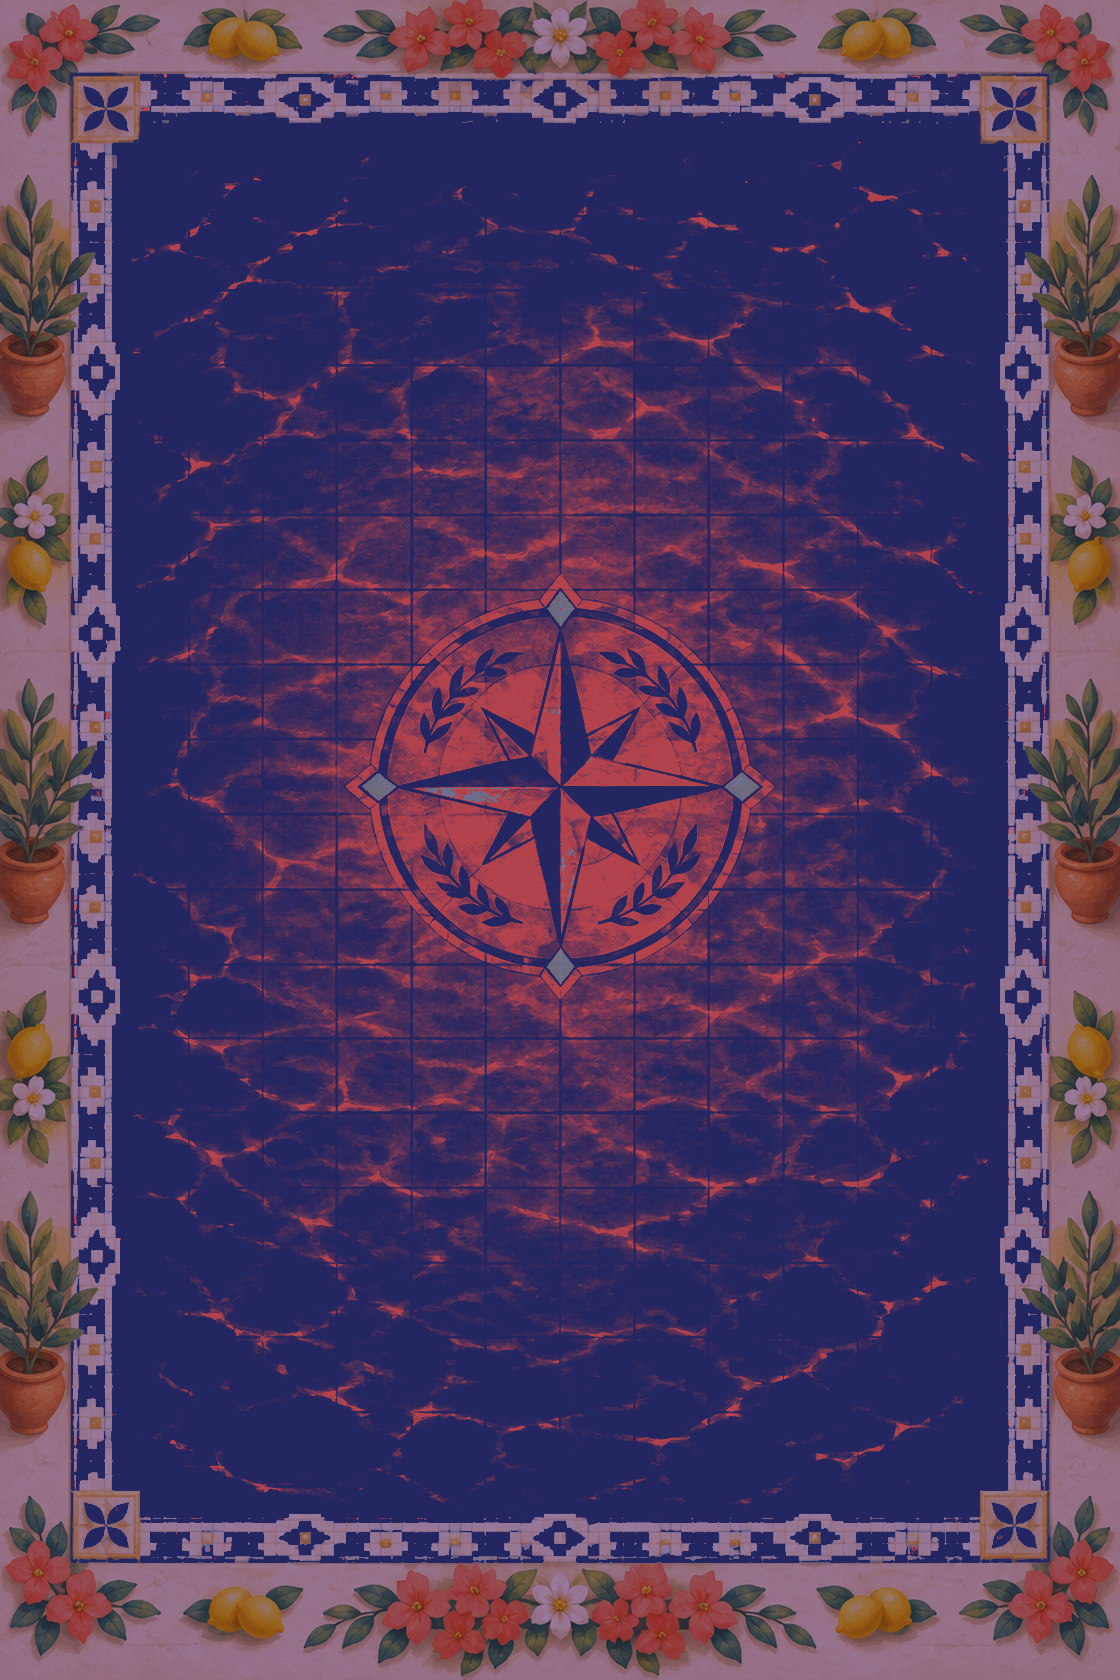
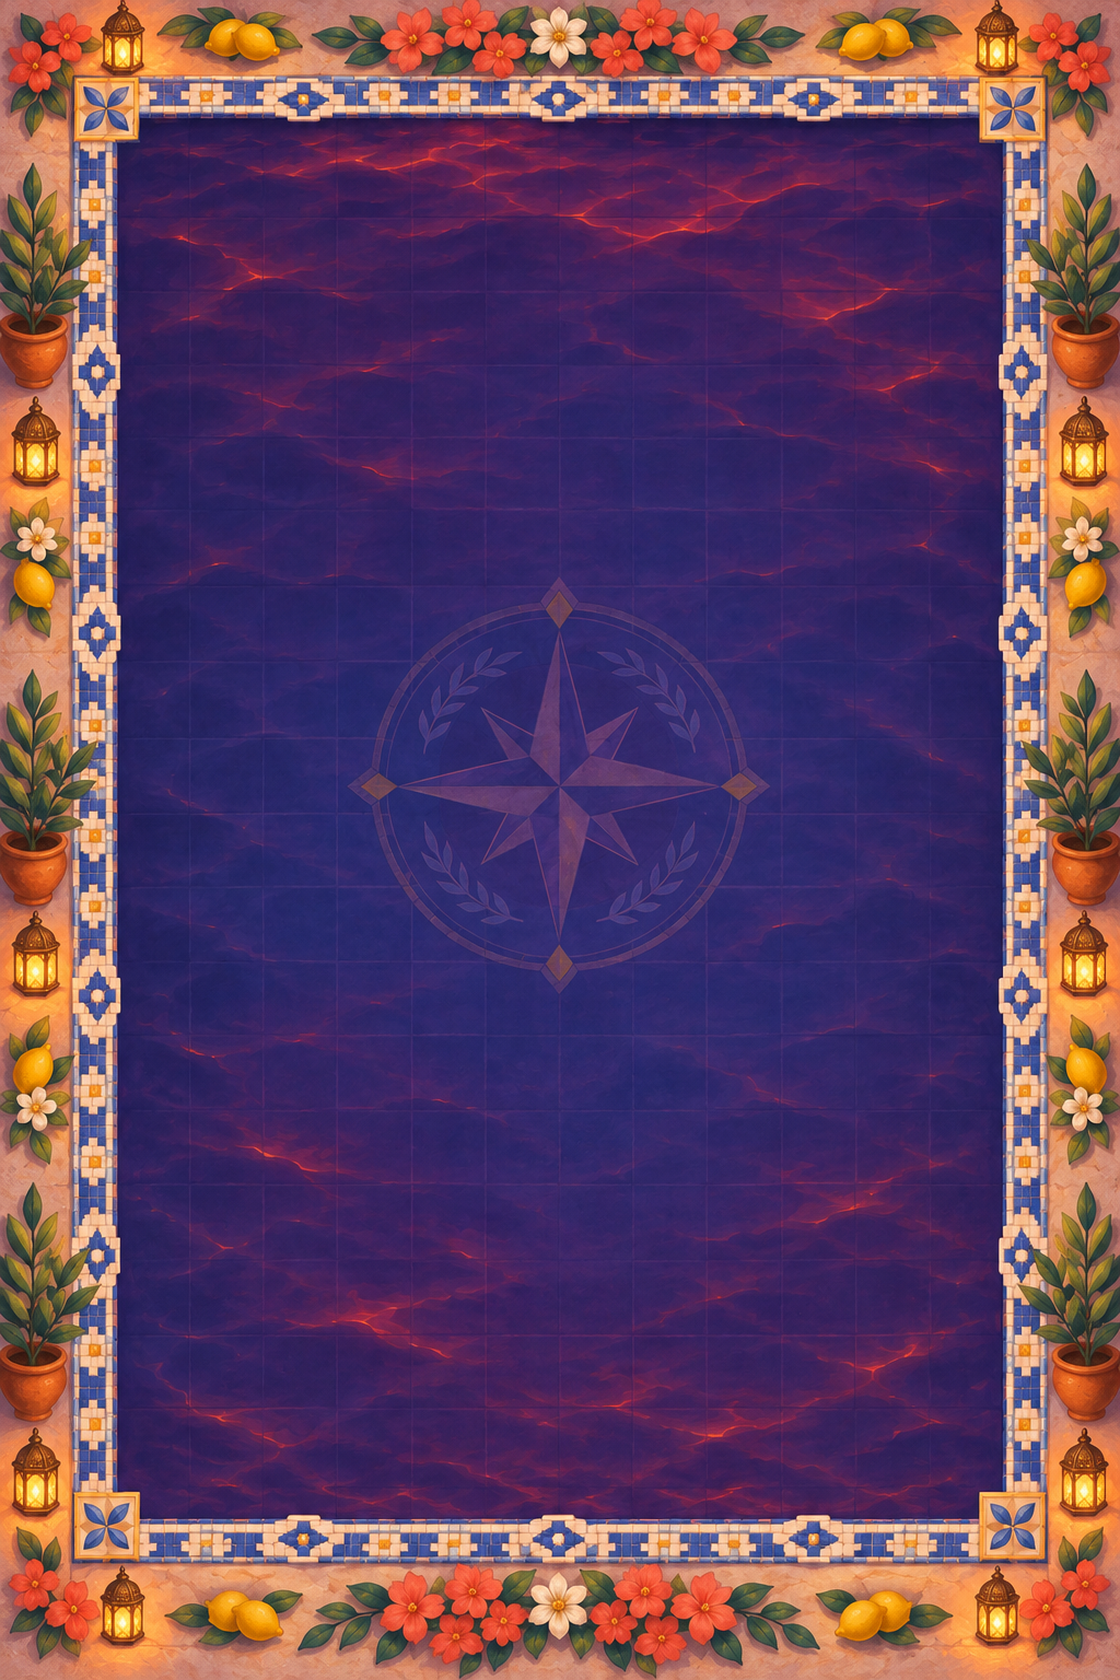
首領戰場地換成 ChatGPT 原畫的燈籠暮色版；泳圈柱、尖刺柱換成水彩俯視版；sw fa-v44
Claude-Session: https://claude.ai/code/session_016eCjSEJzhdYKFaAvZVuY8Q

diff --git a/sw.js b/sw.js
@@ -1,5 +1,5 @@
 // 離線快取：改版時把 VERSION +1
-const VERSION = 'fa-v43';
+const VERSION = 'fa-v44';
 const FILES = ['./', 'index.html', 'style.css', 'style-art.css', 'src/ui/icons.js', 'assets/art/icons/pause.png', 'manifest.json', 'icons/icon-180.png', 'icons/icon-192.png', 'icons/icon-512.png', 'icons/icon-maskable-512.png',
   'assets/fonts/jf-openhuninn-2.1.woff2', 'assets/art/ui/title-bg.png', 'assets/art/ui/title-logo.png',
   'assets/art/ui/strategy-frame-silver.png', 'assets/art/ui/strategy-frame-gold.png', 'assets/art/ui/strategy-frame-prismatic.png',
